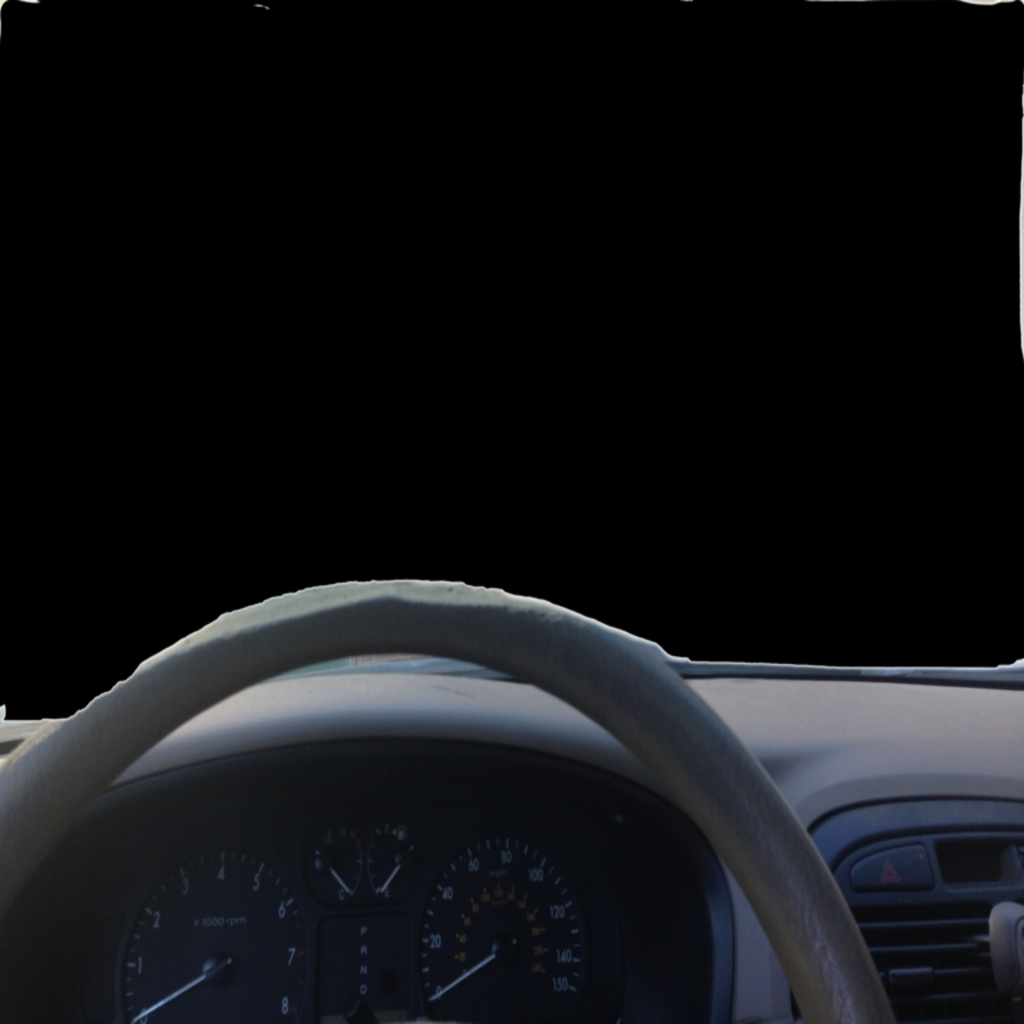
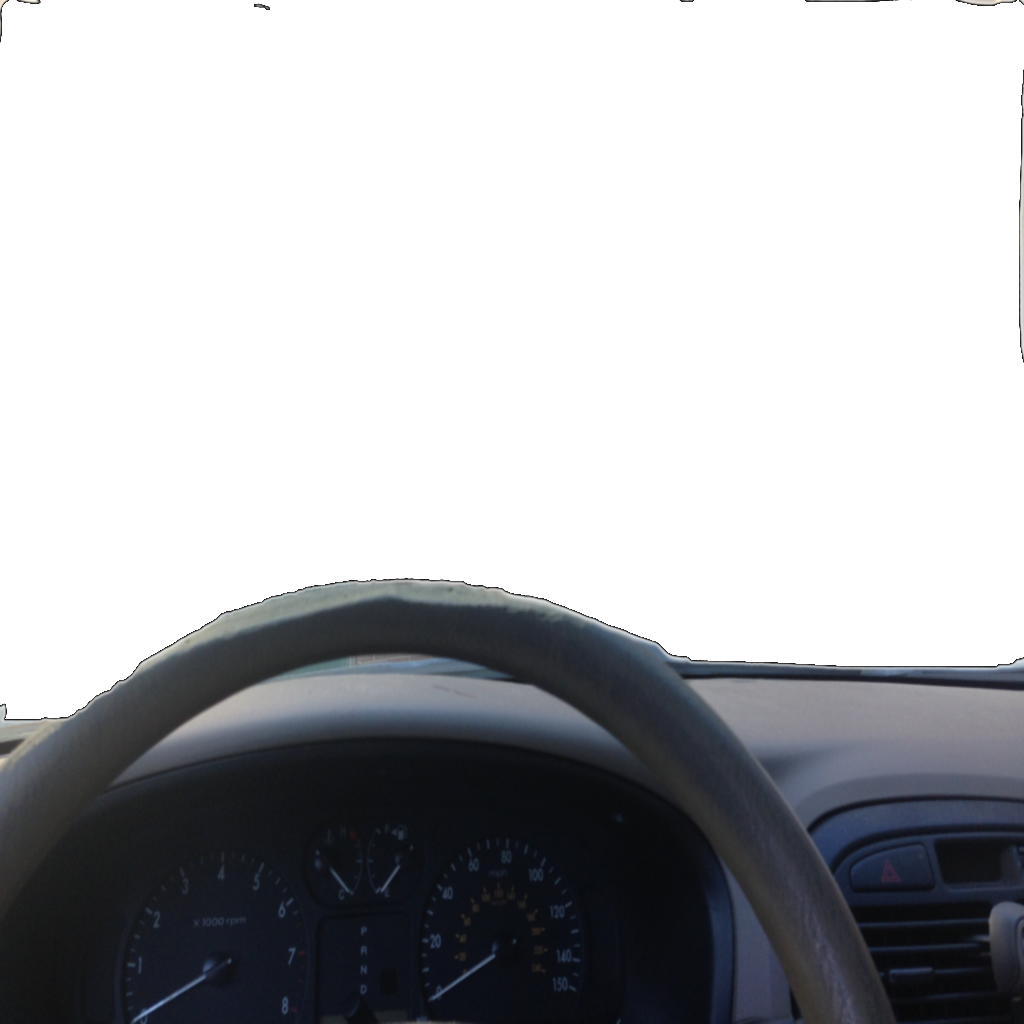
progress

diff --git a/texmap.js b/texmap.js
@@ -180,48 +180,34 @@ function start() {
     gl.clearDepth(1.0); // Clear everything
     gl.enable(gl.DEPTH_TEST); // Enable depth testing
     gl.depthFunc(gl.LEQUAL); // Near things obscure far things
+		gl.blendFunc(gl.SRC_ALPHA, gl.ONE_MINUS_SRC_ALPHA);
+		gl.enable(gl.BLEND);
 		p6.dash = new Cube({
 			hidden: ["top","bottom","left","right","back"]
 			,imageSrc: "dash.png"
-			,cubeRotation: 45
-			,rotateAxis: [1,0,0]
-		})
-    // p5.walls = new Cube({
-    //   hidden: ["front", "top", "bottom"],
-    //   imageSrc: "brick.jpg",
-    // });
-    // p5.floor = new Cube({
-    //   hidden:["front","back","top","left","right"],
-    //   imageSrc: "wood.jpg",
-    // });
-    // p5.tv = new Cube({
-    //   hidden:["front"],
-    //   imageSrc:"vinyl.jpg",
-    //   size:0.4,
-    //   position:[0,-0.5,-3]
-    // });
-    // p5.screen = new Cube({
-    //   hidden:["back","top","bottom","left","right"],
-    //   imageSrc:"vinyl.jpg",
-    //   size:0.4,
-    //   position:[0,-0.5,-3]
-    // })
+			,cubeRotation: 180
+			,rotateAxis: [0,0,1]
+			,size:1.09
+		});
+		p6.road = new Cube({
+			hidden: ["top","bottom","left","right","back"]
+			,imageSrc: "road.png"
+			,cubeRotation: 180
+			,rotateAxis: [0,0,1]
+			,size:1.09
+			,position:[0,0,-3]
+		});
 		p6.dash.initBuffers();
 		p6.dash.initTextures();
-    // p5.walls.initBuffers();
-    // p5.walls.initTextures();
-    // p5.floor.initBuffers();
-    // p5.tv.initBuffers();
-    // p5.tv.initTextures();
-    // p5.floor.initTextures();
-    // p5.screen.initBuffers();
-    // p5.screen.initTextures();
-    setInterval(drawScene, 15);
+		p6.road.initBuffers();
+		p6.road.initTextures();
+		setInterval(drawScene, 15);
   }
 }
 function drawScene() {
   gl.clear(gl.COLOR_BUFFER_BIT | gl.DEPTH_BUFFER_BIT);
   // move the camera
   p6.dash.draw();
+	p6.road.draw();
   var currentTime = (new Date).getTime();
 }

diff --git a/texmap.html b/texmap.html
@@ -16,6 +16,9 @@
 
       void main(void) {
         gl_FragColor = texture2D(uSampler, vec2(vTextureCoord.s, vTextureCoord.t));
+				if(gl_FragColor.r == 0.0) {
+					discard;
+				}
       }
     </script>
 
